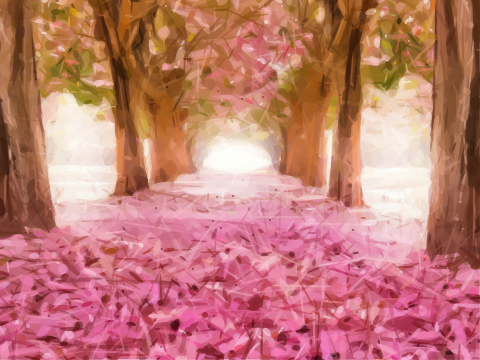
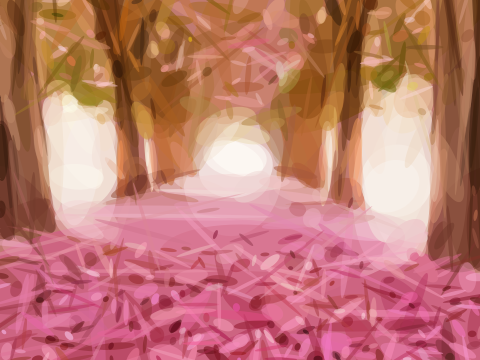
Thumbs created

diff --git a/app/modules/ui/components/stateless/Banner.jsx b/app/modules/ui/components/stateless/Banner.jsx
@@ -27,24 +27,11 @@ export default class Banner extends PureComponent {
     const sourcesPromises = AVAILABLE_SIZES
       .map(([width, height]) => generateSource(PICTURE, width, height));
 
-    const buffers = Promise
+    Promise
       .all(sourcesPromises)
-      .then(sources => {
-        this.setState({ sources });
-
-        return Promise.all(
-          sources.map(({ src }) => new Promise(res => {
-            const img = new Image();
-            img.src = src;
-            img.onload = res;
-          }))
-        );
-      });
-
-    buffers.then(() => {
-      this.setState({ showHD: true });
-      setTimeout(() => this.setState({ startTransition: true }), 2000);
-    });
+      .then(sources =>
+        this.setState({ sources })
+      );
   }
 
   render() {
@@ -56,6 +43,16 @@ export default class Banner extends PureComponent {
 
     return (
       <div className="banner">
+        <picture className={`banner-thumbs ${startTransition ? 'hide' : ''}`}>
+          {sources.map(({ width, thumb }) =>
+            <source key={width} media={`(max-width: ${width}px)`} srcSet={thumb}/>)
+          }
+          <img src={sources[2].thumb} alt='banner'
+               onLoad={() => {
+                 this.setState({ showHD: true });
+                 setTimeout(() => this.setState({ startTransition: true }), 2000);
+               }}/>
+        </picture>
         {showHD ?
           <picture className={`banner-container ${startTransition ? 'show' : 'hide'}`}>
             {sources.map(({ width, src }) =>
@@ -64,12 +61,6 @@ export default class Banner extends PureComponent {
             <img src={sources[2].src} alt='banner'/>
           </picture> : null
         }
-        <picture className={`banner-thumbs ${startTransition ? 'hide' : ''}`}>
-          {sources.map(({ width, thumb }) =>
-            <source key={width} media={`(max-width: ${width}px)`} srcSet={thumb}/>)
-          }
-          <img src={sources[2].thumb} alt='banner'/>
-        </picture>
       </div>
     );
   }

diff --git a/utils/generate-thumbs.js b/utils/generate-thumbs.js
@@ -6,32 +6,40 @@ import {
   BANNER_WINTER
 } from "../app/modules/ui/constants/banners";
 import { exec } from "child_process";
+import flattenDeep from "lodash/flattenDeep";
 
-const command = cmd => new Promise((res, rej) => {
-  exec(cmd, (error, stdout, stderr) => error ? rej(error) : res(stdout));
-});
-
-const cmdTmpl = (file, width) =>
-  `primitive -i app/assets/banners/${file}.png -o app/assets/banners/${file}.thumb.png -n 800 -s ${width} -m 7`;
-
-const executors = [BANNER_SPRING, BANNER_SUMMER, BANNER_AUTUMN, BANNER_WINTER]
-  .map(
-    partial => AVAILABLE_SIZES.map(
-      ([width, height]) => ({ path: `${partial}.${w}x${h}`, width, height })
-    )
-  )
-  .map(({ path, width }) => {
-    const primitive = cmdTmpl(path, width);
-    return async () => {
-      console.info(`Executing on ${path}.png`);
-      return exec(primitive);
-    }
+function generateExecutors() {
+  const command = cmd => new Promise((res, rej) => {
+    exec(cmd, (error, stdout, stderr) => error ? rej(error) : res(stdout));
   });
 
-try {
-  executors.map(async (exec) => await exec());
+  const cmdTmpl = (file, width) =>
+    `primitive -i app/assets/banners/${file}.png -o app/assets/banners/${file}.thumb.png -n 800 -s ${width} -m 7`;
+
+  return [BANNER_SPRING, BANNER_SUMMER, BANNER_AUTUMN, BANNER_WINTER]
+    .map(partial => AVAILABLE_SIZES.map(
+      ([width, height]) => ({ path: `${partial}.${width}x${height}`, width, height })
+    ))
+    .map((sources) => {
+      return sources.map(({ path, width }) => {
+        const primitive = cmdTmpl(path, width);
+        return () => {
+          console.info(`Executing on ${path}.png`);
+          return command(primitive);
+        }
+      });
+    });
 }
-catch (err) {
-  console.warn(err);
-  return 1;
+
+async function main(executors) {
+  try {
+    for(let executor of flattenDeep(executors)){
+      await executor();
+    }
+  }
+  catch (err) {
+    console.warn(err);
+  }
 }
+
+main(generateExecutors()).catch(err => console.error(err));

diff --git a/app/modules/ui/components/style/_banner.scss b/app/modules/ui/components/style/_banner.scss
@@ -7,12 +7,7 @@
 
   .show {
     opacity: 1;
-    transition: opacity ease-in 4s;
-  }
-
-  .hide {
-    opacity: 0;
-    transition: opacity ease-out 4s;
+    transition: opacity ease-in-out 4s;
   }
 
   &-container {
@@ -22,11 +17,5 @@
 
   &-thumbs {
     position: absolute;
-    z-index: 1;
-
-    &, img {
-      height: 100%;
-      width: 100%;
-    }
   }
 }

diff --git a/webpack/loaders.js b/webpack/loaders.js
@@ -41,6 +41,17 @@ module.exports = {
         }
       ]
     },
+    /*{
+      test: /\.thumb\.(gif|png|jpe?g)$/i,
+      use: [
+        {
+          loader: 'url-loader',
+          options: {
+            limit: 1000
+          }
+        }
+      ]
+    }, */
     {
       test: /\.(gif|png|jpe?g)$/i,
       exclude: /node_modules|assets\/banners/,

diff --git a/thumbs.webpack.config.js b/thumbs.webpack.config.js
@@ -1,0 +1,14 @@
+const path = require('path');
+const loaders = require('./webpack/loaders');
+
+module.exports = {
+  target: 'node',
+  entry: {
+    "generate-thumbs": './utils/generate-thumbs.js'
+  },
+  output: {
+    filename: '[name].js',
+    path: path.resolve(__dirname, '.tmp')
+  },
+  module: loaders
+};
